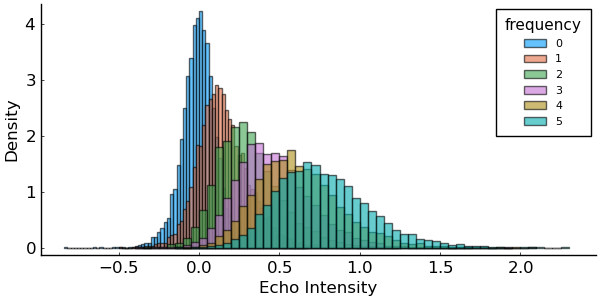
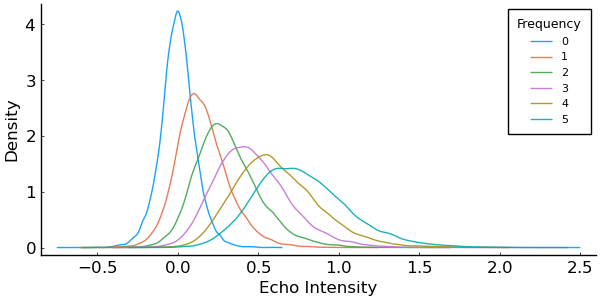
update docs and tests

diff --git a/README.md b/README.md
@@ -1,1 +1,38 @@
 # GlobalMatchingModels
+
+This package wil feature a variety of global matching models of recognition memory. Currently, the only model available is MINERVA 2. More to follow. 
+
+## MINERVA
+
+
+```julia
+cd(@__DIR__)
+using Pkg
+Pkg.activate("..")
+using GlobalMatchingModels, StatsPlots, Random
+include("MINERVA_Functions.jl")
+Random.seed!(356355)
+```
+
+```julia
+# initialize model
+model = MINERVA(h=.75, n_features=20, n_traces=60, L=.50)
+# simulate experiment
+sim_data = mapreduce(x->simulate(model, 4, 5), hcat, 1:10000)'
+```
+
+The plot replicates the results reported in Figure 4 of Hintzman (1988), showing that the echo intensity distributions increase in mean and variance as a function of frequency.
+
+```julia
+pyplot()
+density(sim_data, alpha=.9, grid=false, norm=true, legendtitle="Frequency", label=[0:5;]',
+    legendtitlefontsize=9, xaxis=font(12), yaxis=font(12), xlabel="Echo Intensity", ylabel="Density", 
+    bins=50, size=(600,300))
+```
+<img src="Examples/MINERVA.png" alt="" width="600" height="300">
+
+
+*References*
+
+1. Hintzman, D. L. (1988). Judgments of frequency and recognition model in a multiple-trace model model. 
+    Psychological Review, 95(4), 528.
